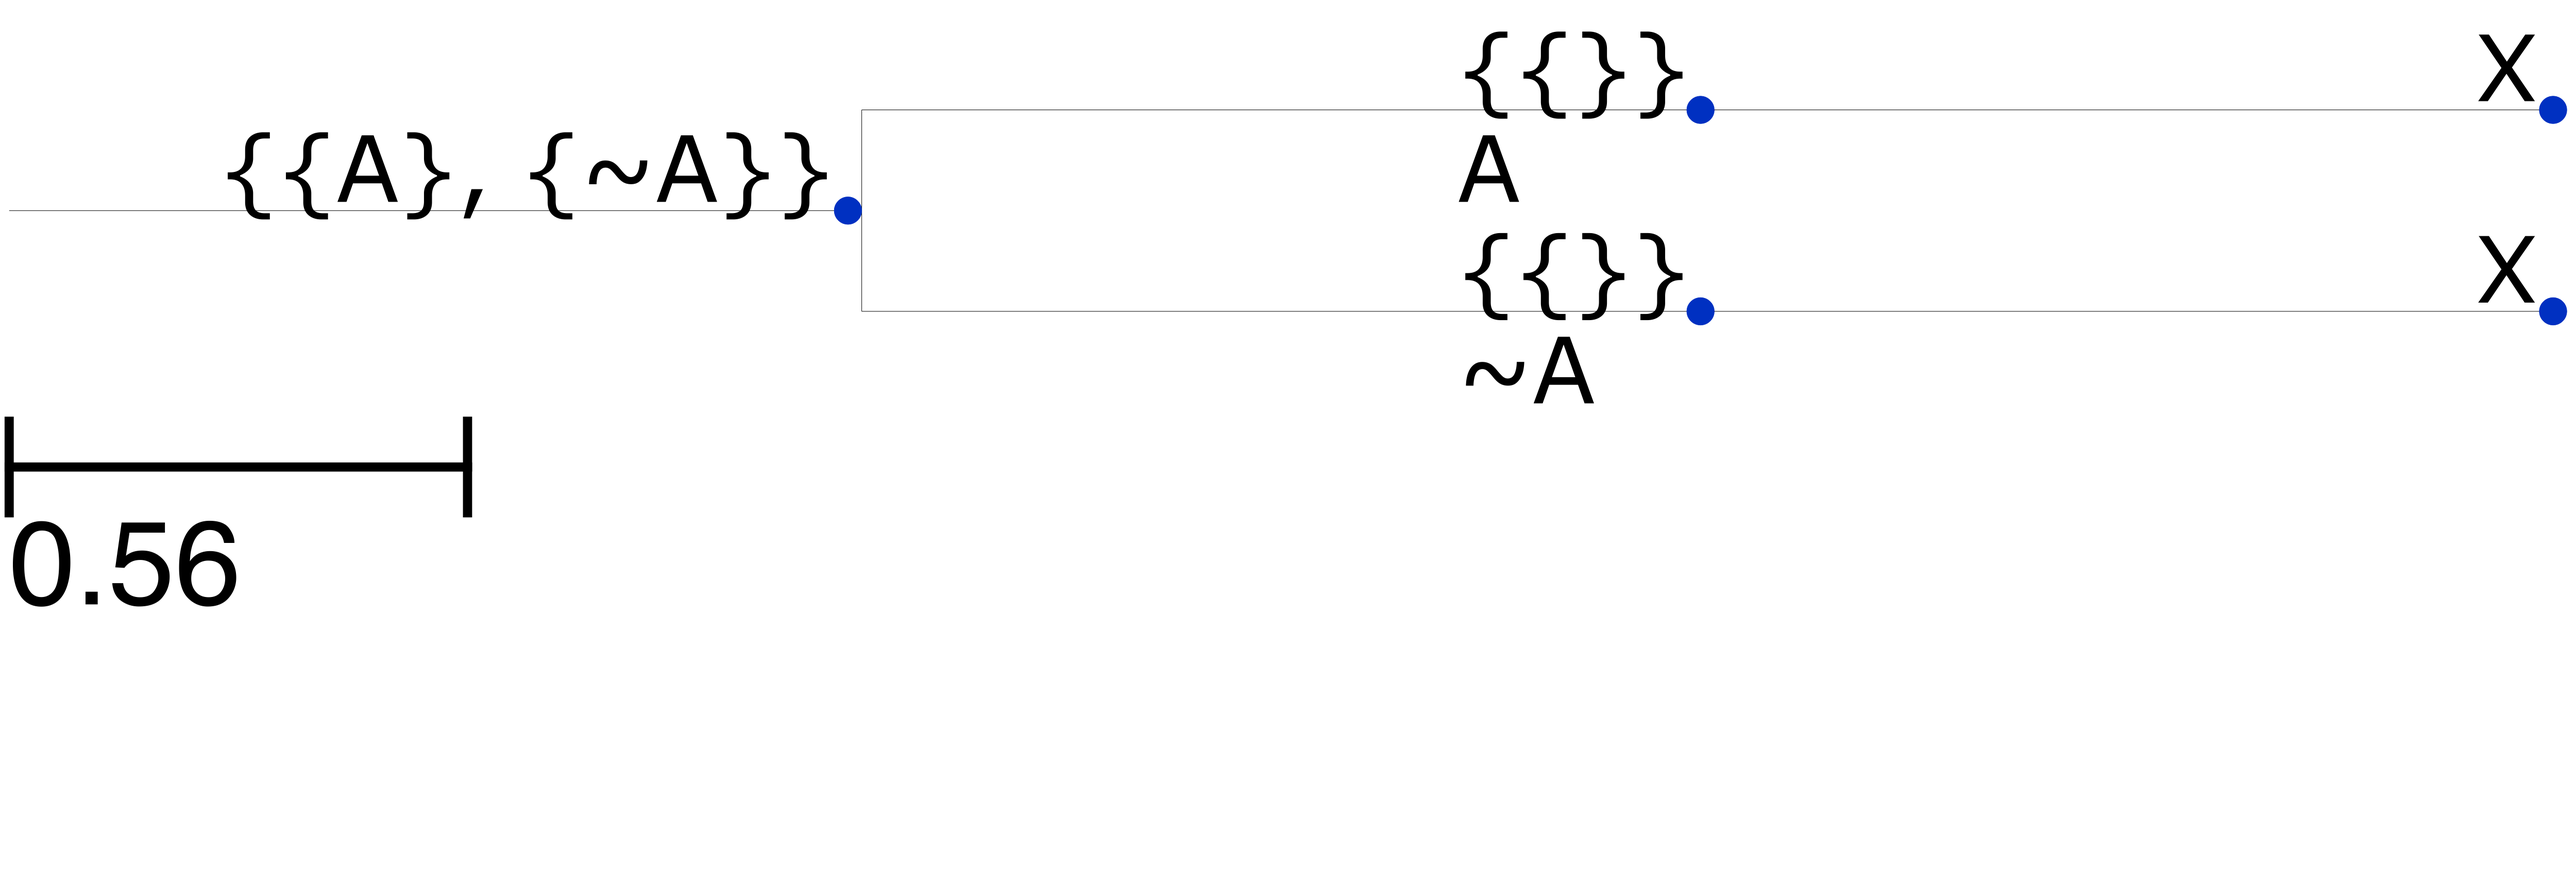
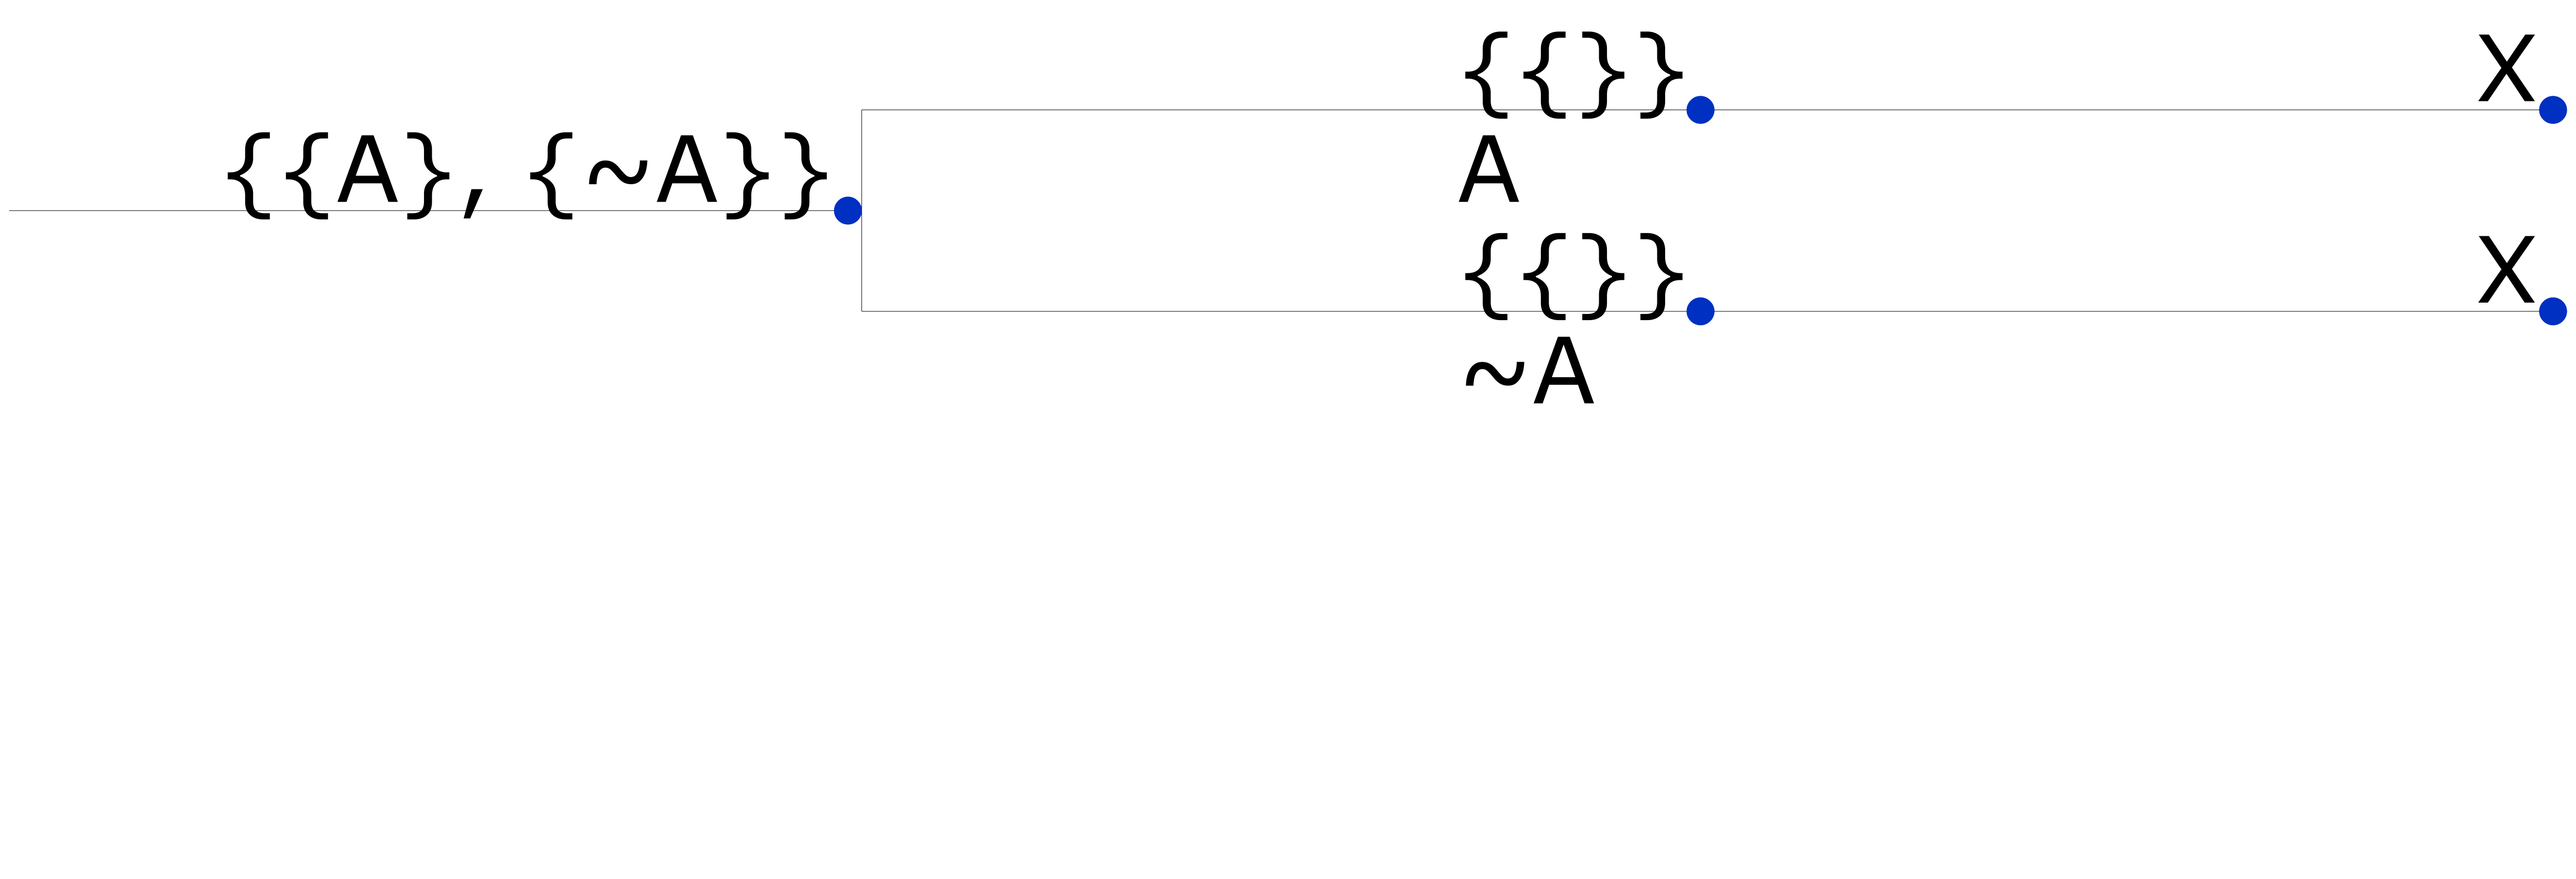
crop out bottom left on graphs

Changed region(s): [[0.0, 0.4965, 0.1872, 0.7137]]

diff --git a/davisputnam/graph.py b/davisputnam/graph.py
@@ -2,6 +2,8 @@ import json
 import sys
 from pprint import pprint
 from ete3 import Tree, TreeStyle, TextFace
+from PIL import Image, ImageDraw
+
 
 
 def parseTree(root):
@@ -36,4 +38,11 @@ if __name__ == '__main__':
     # render the file and save it
     fname = sys.argv[1][:-4] + "png"
     tree_root.render(fname, tree_style=ts, w=5000)
+
+    im = Image.open(fname)
+    (x, y) = im.size
+
+    draw = ImageDraw.Draw(im)
+    draw.rectangle((0, y*.45, x*.25, y), fill="white")
+    im.save(fname, "PNG")
     # tree_root.show(tree_style=ts)
